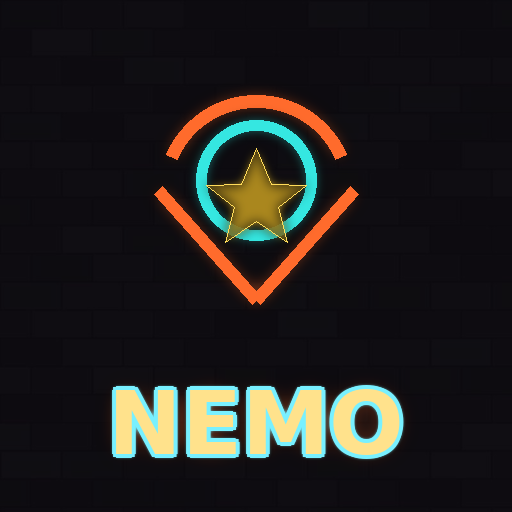
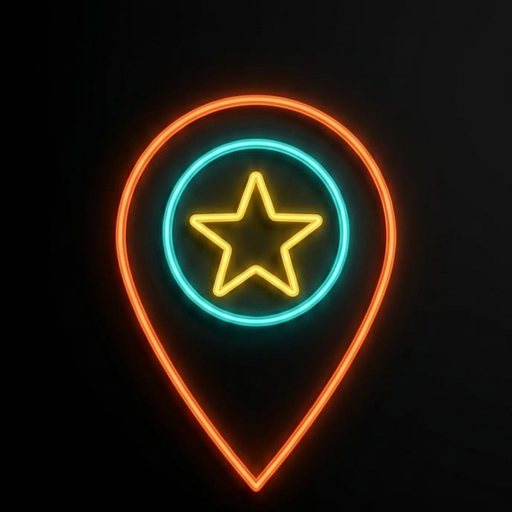
Icono nuevo de la app, pin drag and drop

diff --git a/src/pages/Mapa.jsx b/src/pages/Mapa.jsx
@@ -2,7 +2,7 @@ import { useEffect, useMemo, useRef, useState } from 'react';
 import { useNavigate } from 'react-router-dom';
 import { VENUE, latLonToFrac, stageAt, insideVenue, metersToLatLon } from '../lib/venue';
 import { loadSession, fetchPresence, subscribePresence, upsertPresence, setMyStatus,
-  createSpot, fetchSpots, deleteSpot, renameSpot, subscribeSpots, deviceId } from '../lib/db';
+  createSpot, fetchSpots, deleteSpot, renameSpot, updateSpotPos, subscribeSpots, deviceId } from '../lib/db';
 import { SIM, simXY, simSubscribe, simMove, watchPosition, readBattery } from '../lib/geo';
 import { Avatar } from '../components/Avatar';
 
@@ -20,7 +20,6 @@ export default function Mapa() {
   const [draft, setDraft] = useState('');
   const [view, setView] = useState(null);
   const [pins, setPins] = useState([]);           // puntos de encuentro guardados
-  const [placing, setPlacing] = useState(false);  // modo "colocar pin"
   const [pinView, setPinView] = useState(null);   // pin tocado (editar/eliminar)
   const [pinDraft, setPinDraft] = useState('');   // nombre al crear/editar
 
@@ -148,18 +147,47 @@ export default function Mapa() {
     if (u < 0 || u > 1 || v < 0 || v > 1) return null;
     return { u, v };
   };
-  const onMapTap = (e) => {
-    if (!placing) return;
-    const t = e.changedTouches ? e.changedTouches[0] : e;
-    const uv = tapToUV(t.clientX, t.clientY);
-    if (!uv) return;
-    setPlacing(false);
+  const onMapTap = () => {};  // ya no se usa (los pines se arrastran)
+
+  // crear un pin nuevo: aparece en el centro del mapa y el usuario lo arrastra
+  const addPin = async () => {
     const name = prompt('Nombre del punto de encuentro:');
     if (name == null || !name.trim()) return;
-    createSpot(session.group, name.trim(), uv.u, uv.v, deviceId(), session.name)
+    // lo creamos en el centro (u=0.5, v=0.5); después se arrastra
+    createSpot(session.group, name.trim(), 0.5, 0.5, deviceId(), session.name)
       .then(() => fetchSpots(session.group).then(setPins))
       .catch((err) => alert('No se pudo crear: ' + err.message));
   };
+
+  // arrastrar un pin existente para reposicionarlo
+  const dragPin = useRef(null);
+  const onPinDown = (e, pin) => {
+    e.stopPropagation();
+    dragPin.current = { id: pin.id, moved: false };
+  };
+  const onPinMove = (e) => {
+    if (!dragPin.current) return;
+    const t = e.touches ? e.touches[0] : e;
+    const uv = tapToUV(t.clientX, t.clientY);
+    if (!uv) return;
+    dragPin.current.moved = true;
+    // actualizar visualmente en vivo
+    setPins((cur) => cur.map((p) => p.id === dragPin.current.id ? { ...p, x: uv.u, y: uv.v } : p));
+  };
+  const onPinUp = async () => {
+    const d = dragPin.current;
+    dragPin.current = null;
+    if (!d) return;
+    if (!d.moved) { // no se arrastró: fue un toque → abrir editar/eliminar
+      const pin = pins.find((p) => p.id === d.id);
+      if (pin) setPinView(pin);
+      return;
+    }
+    // se arrastró: guardar la nueva posición
+    const pin = pins.find((p) => p.id === d.id);
+    if (pin) { try { await updateSpotPos(pin.id, pin.x, pin.y); } catch (err) { alert('No se pudo mover: ' + err.message); } }
+  };
+
   const editPin = async () => {
     const name = prompt('Nuevo nombre:', pinView.name);
     if (name == null) return;
@@ -209,8 +237,13 @@ export default function Mapa() {
     <div style={S.root}>
       {/* foto satelital rotada 90° para llenar la pantalla vertical completa.
           La imagen es panorámica (ancha); al rotarla queda alta y ocupa todo. */}
-      <div ref={stageRef} style={S.stage} onTouchStart={onTouchStart} onTouchMove={onTouchMove} onTouchEnd={onTouchEnd}>
-        <div ref={canvasRef} onClick={onMapTap} style={{
+      <div ref={stageRef} style={S.stage}
+        onTouchStart={onTouchStart}
+        onTouchMove={(e) => { if (dragPin.current) onPinMove(e); else onTouchMove(e); }}
+        onTouchEnd={(e) => { if (dragPin.current) onPinUp(e); else onTouchEnd(e); }}
+        onMouseMove={(e) => { if (dragPin.current) onPinMove(e); }}
+        onMouseUp={() => { if (dragPin.current) onPinUp(); }}>
+        <div ref={canvasRef} style={{
           position: 'relative',
           // el lienzo (sin rotar) mide: ancho = altoPantalla, alto = altoPantalla*aspect.
           // al rotar 90°, su ancho visual pasa a ser el alto de pantalla (llena vertical).
@@ -219,7 +252,6 @@ export default function Mapa() {
           transform: `translate(${pan.x}px,${pan.y}px) scale(${zoom}) rotate(90deg)`,
           transformOrigin: 'center',
           flexShrink: 0,
-          cursor: placing ? 'crosshair' : 'default',
         }}>
           <img src={VENUE.image} alt="Loveland"
             style={{ position: 'absolute', inset: 0, width: '100%', height: '100%', objectFit: 'fill', display: 'block' }}
@@ -230,8 +262,10 @@ export default function Mapa() {
               const px = p.x * box.h;
               const py = p.y * box.h * VENUE.aspect;
               return (
-                <button key={p.id} onClick={(e) => { e.stopPropagation(); setPinView(p); }}
-                  style={{ ...S.pinMark, left: px, top: py }}>
+                <button key={p.id}
+                  onMouseDown={(e) => onPinDown(e, p)}
+                  onTouchStart={(e) => onPinDown(e, p)}
+                  style={{ ...S.pinMark, left: px, top: py, touchAction: 'none', cursor: 'grab' }}>
                   <span style={S.pinIcon}>📍</span>
                   <span style={S.pinLabel}>{p.name}</span>
                 </button>
@@ -273,8 +307,8 @@ export default function Mapa() {
         </button>
         )}
         <button style={{ ...S.pill, ...S.pillCal }} onClick={() => nav('/lineup')} title="Line-up">📅</button>
-        <button style={{ ...S.pill, ...S.pillPin, ...(placing ? S.pillPinOn : {}) }}
-          onClick={() => setPlacing((v) => !v)} title="Marcar punto de encuentro">📍</button>
+        <button style={{ ...S.pill, ...S.pillPin }}
+          onClick={addPin} title="Agregar punto de encuentro">📍</button>
       </div>
 
       {showMon && (

diff --git a/src/lib/db.js b/src/lib/db.js
@@ -184,6 +184,11 @@ export async function renameSpot(id, name) {
   if (error) { console.error('renameSpot:', error.message); throw error; }
 }
 
+export async function updateSpotPos(id, x, y) {
+  const { error } = await supabase.from('spots').update({ x, y }).eq('id', id);
+  if (error) { console.error('updateSpotPos:', error.message); throw error; }
+}
+
 export function subscribeSpots(group, onChange) {
   const ch = supabase.channel('spots:' + group + ':' + Math.random().toString(36).slice(2))
     .on('postgres_changes', { event: '*', schema: 'public', table: 'spots', filter: `group_code=eq.${group}` }, onChange)

diff --git a/index.html b/index.html
@@ -9,6 +9,7 @@
     <link rel="preconnect" href="https://fonts.googleapis.com" />
     <link rel="preconnect" href="https://fonts.gstatic.com" crossorigin />
     <link href="https://fonts.googleapis.com/css2?family=Poppins:wght@400;600;700;900&display=swap" rel="stylesheet" />
+    <link rel="apple-touch-icon" href="/icon-192.png" />
     <title>NEMO</title>
   </head>
   <body>
